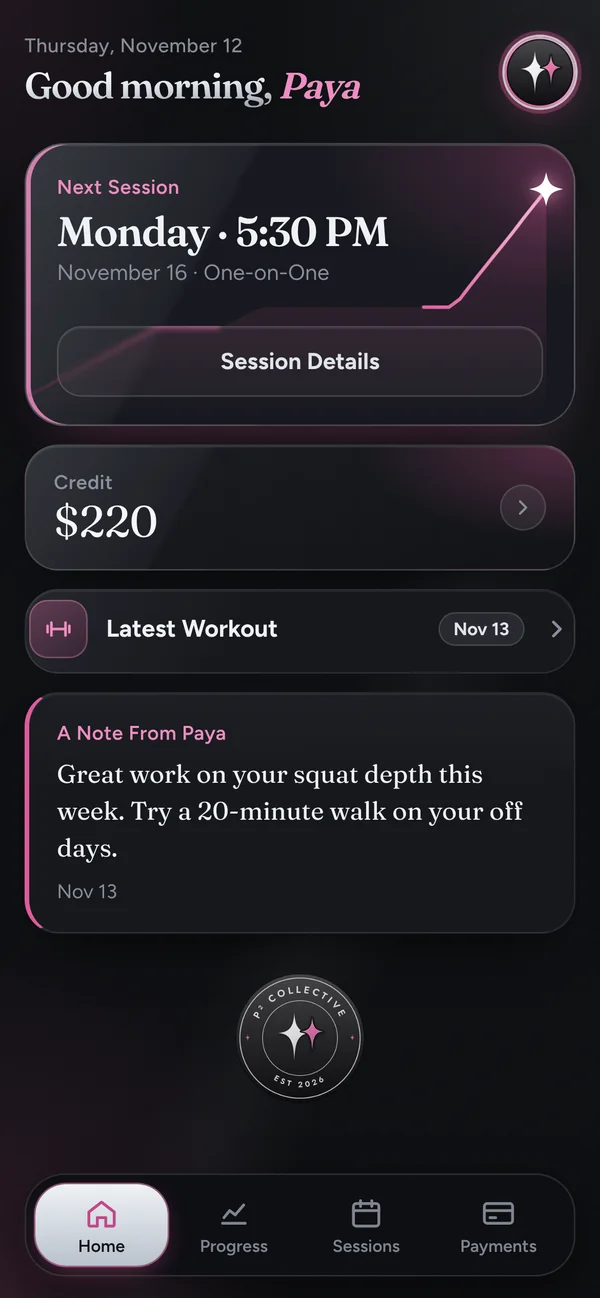
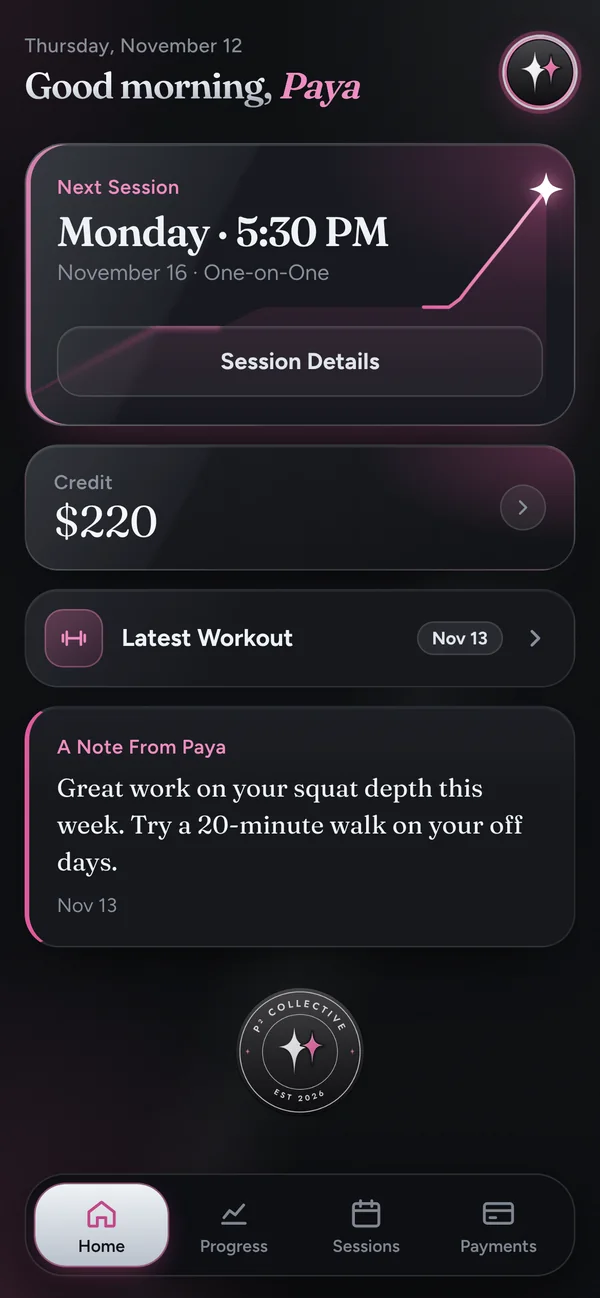
Tester pages: fix Latest Workout and Add Set spacing, stop iPhone zoom on fields
Claude-Session: https://claude.ai/code/session_01GUqqJf67EPZE3HdT2vwbG5

diff --git a/c/test-8cGrq0vk/index.html b/c/test-8cGrq0vk/index.html
@@ -493,6 +493,14 @@ details.wfold>summary{font-family:inherit;font-size:1rem;letter-spacing:0}
 .chart .cstar{position:absolute;width:22px;height:22px;margin:-11px 0 0 -11px;pointer-events:none;opacity:0;animation:cpop .7s 1.15s cubic-bezier(.2,.7,.2,1) forwards;filter:drop-shadow(0 0 6px rgba(240,140,194,1)) drop-shadow(0 0 14px rgba(224,90,156,.9))}
 .chart .cstar svg{display:block;width:100%;height:100%;fill:#fff}
 .card .chart .pt{fill:#16181D}
+/* Latest Workout row keeps its own padding (the section-label style above is for plain group headings) */
+details.wfold>summary{padding:12px 16px 12px 12px}
+/* guided workout: the sets sit inside their card with room on both sides */
+.gstep .lg-ex{padding:2px 12px 8px}
+.gstep .lg-ex .addset{margin-top:8px;padding:8px 2px}
+/* iPhone zooms the whole page when a field's text is under 16px, so no field goes below that */
+input,select,textarea{font-size:max(16px,1rem)}
+.srow input,.field input,.field select,.field textarea,.lgnote textarea,.rlog textarea,.wdate input{font-size:max(16px,1rem)}
 @media (prefers-reduced-motion:reduce){.chart .cstar{animation:none;opacity:1}.pinc.bad{animation:none}}
 </style>
 </head>

diff --git a/c/test-B2b717rd/index.html b/c/test-B2b717rd/index.html
@@ -493,6 +493,14 @@ details.wfold>summary{font-family:inherit;font-size:1rem;letter-spacing:0}
 .chart .cstar{position:absolute;width:22px;height:22px;margin:-11px 0 0 -11px;pointer-events:none;opacity:0;animation:cpop .7s 1.15s cubic-bezier(.2,.7,.2,1) forwards;filter:drop-shadow(0 0 6px rgba(240,140,194,1)) drop-shadow(0 0 14px rgba(224,90,156,.9))}
 .chart .cstar svg{display:block;width:100%;height:100%;fill:#fff}
 .card .chart .pt{fill:#16181D}
+/* Latest Workout row keeps its own padding (the section-label style above is for plain group headings) */
+details.wfold>summary{padding:12px 16px 12px 12px}
+/* guided workout: the sets sit inside their card with room on both sides */
+.gstep .lg-ex{padding:2px 12px 8px}
+.gstep .lg-ex .addset{margin-top:8px;padding:8px 2px}
+/* iPhone zooms the whole page when a field's text is under 16px, so no field goes below that */
+input,select,textarea{font-size:max(16px,1rem)}
+.srow input,.field input,.field select,.field textarea,.lgnote textarea,.rlog textarea,.wdate input{font-size:max(16px,1rem)}
 @media (prefers-reduced-motion:reduce){.chart .cstar{animation:none;opacity:1}.pinc.bad{animation:none}}
 </style>
 </head>

diff --git a/c/test-V5ONv3i0/index.html b/c/test-V5ONv3i0/index.html
@@ -493,6 +493,14 @@ details.wfold>summary{font-family:inherit;font-size:1rem;letter-spacing:0}
 .chart .cstar{position:absolute;width:22px;height:22px;margin:-11px 0 0 -11px;pointer-events:none;opacity:0;animation:cpop .7s 1.15s cubic-bezier(.2,.7,.2,1) forwards;filter:drop-shadow(0 0 6px rgba(240,140,194,1)) drop-shadow(0 0 14px rgba(224,90,156,.9))}
 .chart .cstar svg{display:block;width:100%;height:100%;fill:#fff}
 .card .chart .pt{fill:#16181D}
+/* Latest Workout row keeps its own padding (the section-label style above is for plain group headings) */
+details.wfold>summary{padding:12px 16px 12px 12px}
+/* guided workout: the sets sit inside their card with room on both sides */
+.gstep .lg-ex{padding:2px 12px 8px}
+.gstep .lg-ex .addset{margin-top:8px;padding:8px 2px}
+/* iPhone zooms the whole page when a field's text is under 16px, so no field goes below that */
+input,select,textarea{font-size:max(16px,1rem)}
+.srow input,.field input,.field select,.field textarea,.lgnote textarea,.rlog textarea,.wdate input{font-size:max(16px,1rem)}
 @media (prefers-reduced-motion:reduce){.chart .cstar{animation:none;opacity:1}.pinc.bad{animation:none}}
 </style>
 </head>
